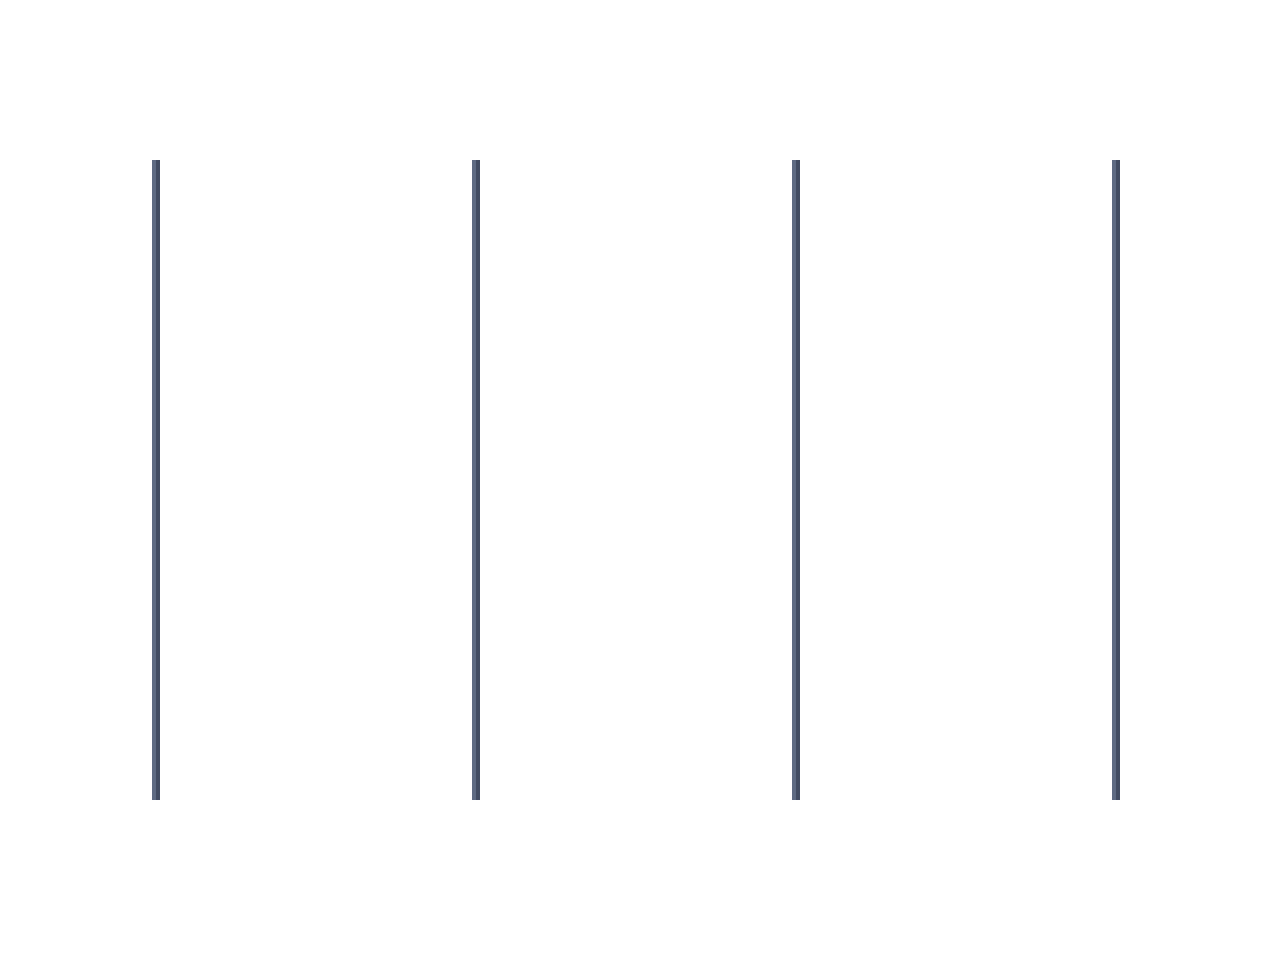
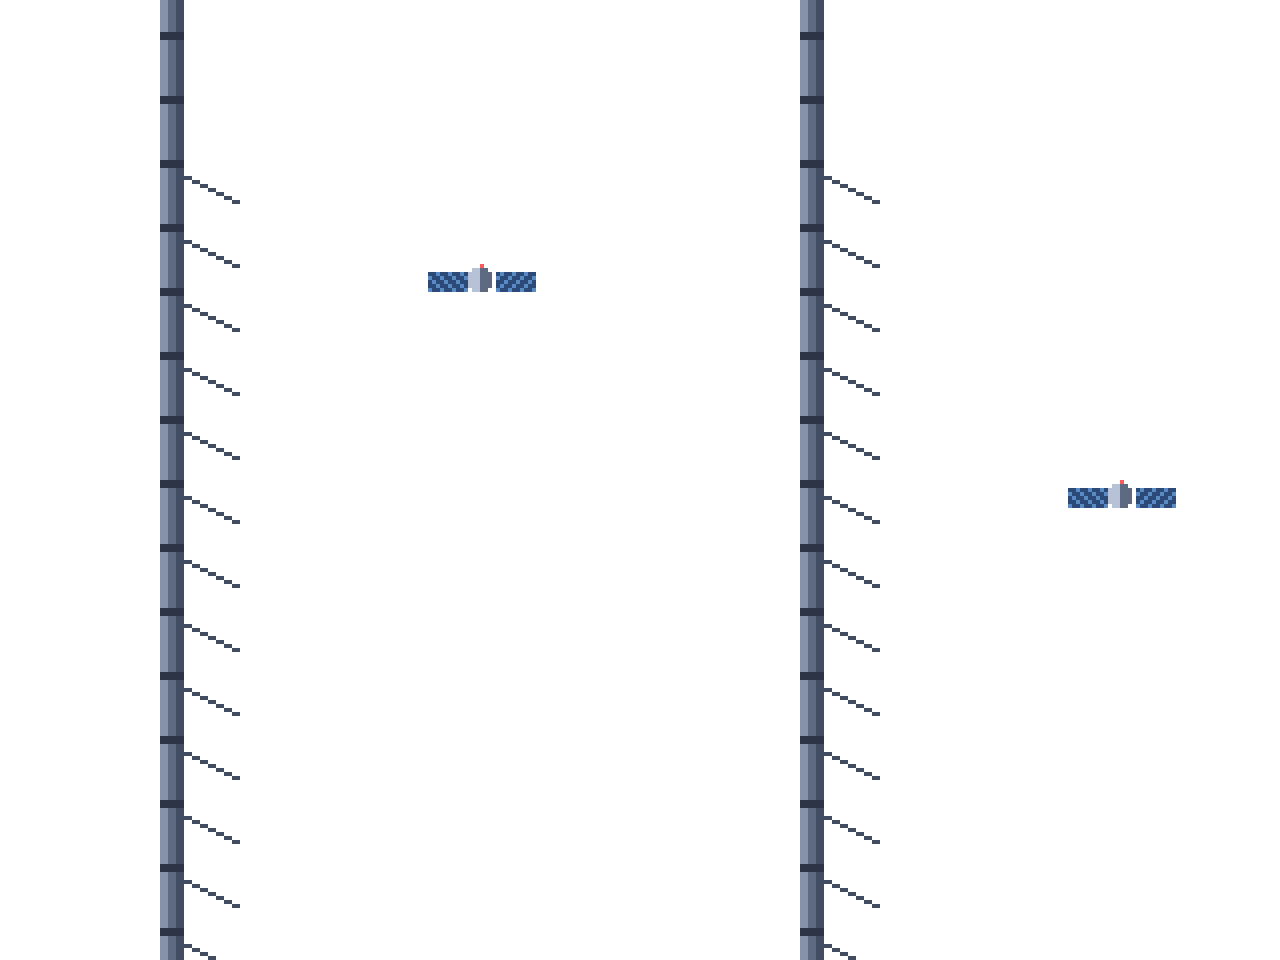
The elevator journey: the planet's limb below (oceans, continents, clouds, a glowing rim), the galaxy band, satellites and the tower's struts going by
Claude-Session: https://claude.ai/code/session_01UudrmtYkicLNgZeuSjvjrK

diff --git a/scripts/art/journey.py b/scripts/art/journey.py
@@ -59,12 +59,21 @@ def sky(theme) -> Canvas:
         for (x, y) in disc(250, 46, 26):  # the planet, far behind now
             band = int((y + math.sin(x / 7) * 2) / 4) % 3
             cv.set(x, y, ('#3E6AA8', '#5A8AC4', '#E6EEF6')[band] if (x - 250) + (y - 46) < 20 else '#2C4A78')
-    if theme['kind'] == 'space':
-        for (x, y) in disc(240, 150, 70):  # the planet below
-            if 0 <= y < H:
-                band = int((y + math.sin(x / 9) * 2) / 5) % 3
-                cv.set(x, y, ('#3E6AA8', '#5A8AC4', '#E6EEF6')[band])
+    if theme['kind'] == 'space':  # a faint band of the galaxy, dithered, and a far sun
+        for x in range(W):
+            for y in range(20, 70):
+                d = abs(y - (44 + 10 * math.sin(2 * math.pi * x / W)))
+                if d < 12 and (x + y) % 3 == 0 and noise2(x, y, 560) > d / 14:
+                    cv.set(x, y, '#2A3460' if d > 5 else '#3E4A80')
+        for (x, y) in disc(60, 30, 5):
+            cv.set(x, y, '#FFF4D0' if math.hypot(x - 60, y - 30) < 3 else '#FFD88A')
     return cv
+
+
+def looped_noise(x: float, y: float, scale: float, seed: int) -> float:
+    """smooth_noise that wraps across the loop's width (blended with itself one loop over)."""
+    t = (x % W) / W
+    return smooth_noise(x % W, y, scale, seed) * (1 - t) + smooth_noise(x % W - W, y, scale, seed) * t
 
 
 def ridge(cv: Canvas, ramp, base: int, amp: float, freq: float, seed: int, lit: bool = True):
@@ -146,8 +155,26 @@ def far(theme) -> Canvas:
     cv = Canvas(W, H)
     kind = theme['kind']
     air = theme['sky'][1]
-    if kind == 'space':
-        return cv  # the void; the planet is in the sky layer
+    if kind == 'space':  # the planet below: its limb along the bottom, turning slowly
+        for x in range(W):
+            top = 112 + int(round(3 * math.sin(2 * math.pi * x / W)))
+            for y in range(top - 3, H):
+                if y < top:  # the atmosphere's glow, dithered off into space
+                    if (x + y) % (top - y + 1) == 0:
+                        cv.set(x, y, '#3E8AC4')
+                    continue
+                k = y - top
+                land = looped_noise(x, y * 1.6, 22, 561)
+                cloud = looped_noise(x * 0.6, y * 3, 14, 562)
+                c = '#1E4A8A' if land < 0.55 else '#3E7A4A' if land < 0.66 else '#7A8A4A'
+                if k > 26:
+                    c = '#163A6E' if land < 0.55 else '#2E5A3A'  # the night side, further round
+                if cloud > 0.62 and (cloud > 0.7 or (x + y) % 2):
+                    c = '#E6EEF6' if k < 26 else '#9AB0C8'
+                if k < 2:
+                    c = '#9AD2FF' if k == 0 else '#5AA8E6'  # the bright rim
+                cv.set(x, y, c)
+        return cv
     if kind == 'moon':  # the moon's grey mountains coming up to meet the shuttle
         ridge(cv, theme['far'], 110, 22, 2, 4)
         ridge(cv, [theme['far'][1], theme['far'][2], theme['far'][3]], 130, 10, 3, 6)
@@ -254,10 +281,26 @@ def near(theme, rail: bool = True) -> Canvas:
                 cv.set(x % W, y, ramp[1] if (x - cx) + (y - 144) * 2 > 0 else ramp[4])
         return cv
     if kind == 'space':
-        for x in range(W):  # the elevator's cable rushing past
-            if x % 80 in (38, 39):
-                for y in range(0, H):
-                    cv.set(x, y, M['hull'][3] if x % 80 == 38 else M['hull'][2])
+        HULL = M['hull']
+        for sx in (40, 200):  # struts of the elevator's tower flicking past, close
+            for y in range(0, H):
+                for dx in range(6):
+                    c = HULL[4] if dx < 2 else HULL[3] if dx < 4 else HULL[2]
+                    if y % 16 in (0, 1):
+                        c = HULL[1]  # a joint
+                    cv.set(sx + dx, y, c)
+            for y in range(4, H, 16):  # cross-bracing
+                for t in range(14):
+                    cv.set(sx + 6 + t, y + t // 2, HULL[2])
+        for (cx, cy) in ((120, 30), (280, 84)):  # a satellite with its panels out
+            for (x, y) in disc(cx, cy, 3):
+                cv.set(x, y, HULL[5] if x < cx else HULL[3])
+            for side in (-1, 1):
+                for x in range(4, 14):
+                    for y in range(-2, 3):
+                        px = cx + side * x
+                        cv.set(px, cy + y, '#2C4A78' if (x + y) % 3 else '#5A8AC4')
+            cv.set(cx, cy - 4, '#FF5A5A')
         return cv
     for y in range(112, H):  # the embankment: calm bands, tufts along its top
         for x in range(W):
@@ -434,7 +477,18 @@ def foot(theme, cv: Canvas):
     beside the line in each land, rushing past fastest."""
     kind, ramp = theme['kind'], theme['near']
     y0 = TOP + H - 8
-    if kind == 'space':
+    if kind == 'space':  # the struts run on down past the scene
+        HULL = M['hull']
+        for sx in (40, 200):
+            for y in [*range(0, TOP), *range(TOP + H, FULL_H)]:
+                for dx in range(6):
+                    c = HULL[4] if dx < 2 else HULL[3] if dx < 4 else HULL[2]
+                    if (y - TOP) % 16 in (0, 1):
+                        c = HULL[1]
+                    cv.set(sx + dx, y, c)
+            for y in range(TOP + H + 4, FULL_H, 16):
+                for t in range(14):
+                    cv.set(sx + 6 + t, y + t // 2, HULL[2])
         return
     for y in range(y0, FULL_H):  # the ground continues
         for x in range(W):
@@ -514,7 +568,13 @@ def main():
     for i, (dest, theme) in enumerate(THEMES.items()):
         near_l = tall(near(theme))
         foot(theme, near_l)
-        layers = {'sky': tall_sky(theme), 'far': tall(far(theme)), 'near': near_l}
+        far_l = tall(far(theme))
+        if theme['kind'] == 'space':  # the planet's night side carries on below the scene
+            for y in range(TOP + H, FULL_H):
+                for x in range(W):
+                    land = looped_noise(x, y * 1.6, 22, 561)
+                    far_l.set(x, y, '#0C2244' if land < 0.55 else '#1A3424')
+        layers = {'sky': tall_sky(theme), 'far': far_l, 'near': near_l}
         for name, cv in layers.items():
             cv.save(os.path.join(OUT, f'{dest}-{name}.png'), SCALE)
         if dest in YARDS:  # the same land without the railway: a region ring's battle ground
